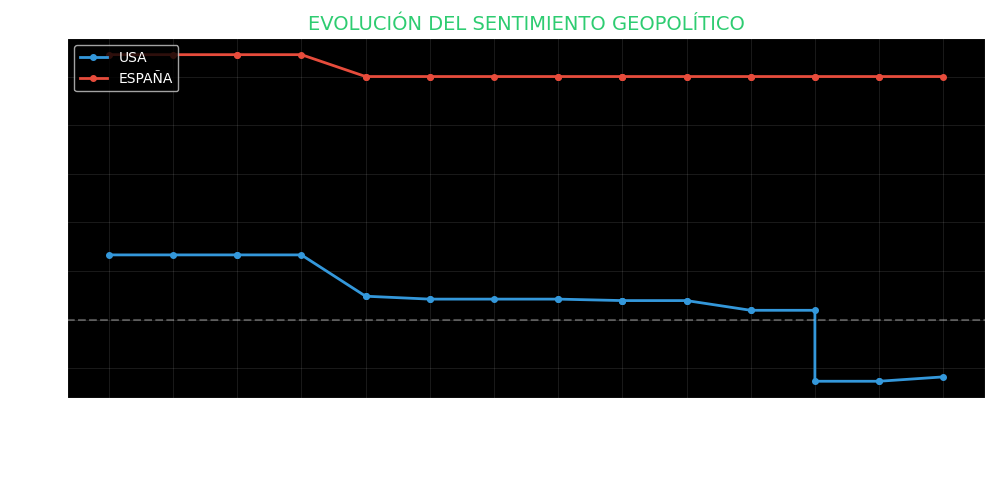
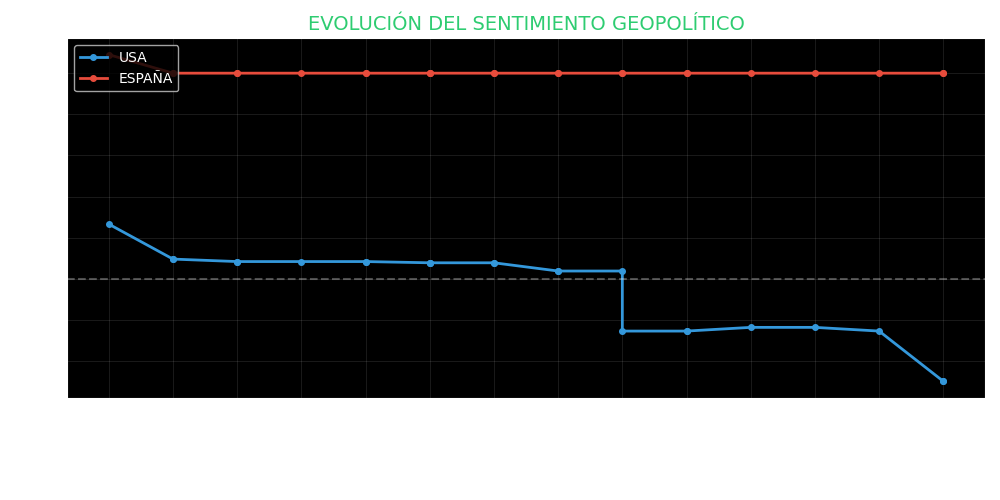
Intel Update: 2026-02-08 19:00

diff --git a/automation/main_intel.py b/automation/main_intel.py
@@ -1,133 +1,97 @@
 #!/usr/bin/env python3
 # -*- coding: utf-8 -*-
 
-import os
-import feedparser
-import sqlite3
-import json
+import os, feedparser, sqlite3, json, pytz
 from datetime import datetime
-import pytz
 
-# ===============================
-# SENTIMIENTO (VADER) - NO SE TOCA
-# ===============================
-try:
-    from vaderSentiment.vaderSentiment import SentimentIntensityAnalyzer
-    analyzer = SentimentIntensityAnalyzer()
-    VADER_OK = True
-except Exception:
-    analyzer = None
-    VADER_OK = False
+# --- CONFIGURACIÓN ---
+BASE_DIR = "/home/dietpi/intel_center_odroid"
+DB_PATH = os.path.join(BASE_DIR, "data/news.db")
+JSON_OUTPUT = os.path.join(BASE_DIR, "blog/data/hotspots.json")
+INFORME_MD = os.path.join(BASE_DIR, "blog/content/post/2026-02-08-informe.md")
+USA_CSV = os.path.join(BASE_DIR, "data/usa_trend.csv")
+SPAIN_CSV = os.path.join(BASE_DIR, "data/spain_trend.csv")
 
-def obtener_sentimiento(texto: str) -> float:
-    if not VADER_OK: return 0.0
-    try:
-        return analyzer.polarity_scores(texto)["compound"]
-    except Exception:
-        return 0.0
+ZONA_LOCAL = pytz.timezone("Europe/Madrid")
+ahora = datetime.now(ZONA_LOCAL)
+fecha_s = ahora.strftime("%Y-%m-%d %H:%M")
 
-# ===============================
-# CONFIGURACIÓN Y RUTAS (MODO HIGH)
-# ===============================
-INTEL_MODE = "HIGH"
-SCRIPT_DIR = os.path.dirname(os.path.abspath(__file__))
-BASE_DIR   = os.path.dirname(SCRIPT_DIR)
-
-DB_PATH        = os.path.join(BASE_DIR, "data/news.db")
-JSON_OUTPUT    = os.path.join(BASE_DIR, "blog/data/hotspots.json")
-INFORME_MD     = os.path.join(BASE_DIR, "blog/content/post/2026-02-08-informe.md")
-USA_LOG_CSV    = os.path.join(BASE_DIR, "data/usa_trend.csv")
-SPAIN_LOG_CSV  = os.path.join(BASE_DIR, "data/spain_trend.csv")
-
-USER_AGENT = "IntelCenterBot/1.0 (DietPi HighPerformance)"
-
-DATOS_INTEL = {
-    "USA_NORTE":      {"url": "https://www.theguardian.com/us-news/rss", "coord": [40.0, -100.0]},
-    "Europa_DW":      {"url": "https://rss.dw.com/rdf/rss-en-top", "coord": [50.0, 10.0]},
-    "Rusia_Eurasia":  {"url": "https://tass.com/rss/v2.xml", "coord": [60.0, 90.0]},
-    "Medio_Oriente":  {"url": "https://www.aljazeera.com/xml/rss/all.xml", "coord": [25.0, 45.0]},
-    "Asia_Nikkei":    {"url": "https://asia.nikkei.com/rss/feed/nar", "coord": [35.0, 135.0]},
-    "Africa_Sahel":   {"url": "https://www.africanews.com/feed/", "coord": [15.0, 15.0]},
-    "ESPAÑA":          {"url": "https://elpais.com/rss/politica/portada.xml", "coord": [40.4, -3.7]},
-    "LATAM_GENERAL":  {"url": "https://www.bbc.com/mundo/temas/america_latina/index.xml", "coord": [-15.0, -60.0]},
-    "BRASIL":          {"url": "https://agenciabrasil.ebc.com.br/rss/ultimasnoticias/feed.xml", "coord": [-10.0, -55.0]},
-    "ARGENTINA":       {"url": "https://www.clarin.com/rss/politica/", "coord": [-34.0, -64.0]},
+FEEDS = {
+    "USA_NORTE": "https://www.theguardian.com/us-news/rss",
+    "ESPAÑA": "https://elpais.com/rss/politica/portada.xml",
+    "ARGENTINA": "https://www.clarin.com/rss/politica/",
+    "BRASIL": "https://agenciabrasil.ebc.com.br/rss/ultimasnoticias/feed.xml",
+    "Europa_DW": "https://rss.dw.com/rdf/rss-en-top",
+    "Rusia_Eurasia": "https://tass.com/rss/v2.xml",
+    "Medio_Oriente": "https://www.aljazeera.com/xml/rss/all.xml",
+    "Asia_Nikkei": "https://asia.nikkei.com/rss/feed/nar",
+    "Africa_Sahel": "https://www.africanews.com/feed/"
 }
 
-KEYWORDS_CRITICAS = ["nuclear","missile","misil","attack","ataque","war","coup","terror","militar","tension"]
+COORDS = {
+    "USA_NORTE": [40.0, -100.0], "ESPAÑA": [40.4, -3.7], "ARGENTINA": [-34.0, -64.0],
+    "BRASIL": [-10.0, -55.0], "Europa_DW": [50.0, 10.0], "Rusia_Eurasia": [60.0, 90.0],
+    "Medio_Oriente": [25.0, 45.0], "Asia_Nikkei": [35.0, 135.0], "Africa_Sahel": [15.0, 15.0]
+}
 
-def calcular_score(titulo: str, sentimiento: float) -> float:
-    t = titulo.lower()
-    score = 1.0
-    if any(k in t for k in KEYWORDS_CRITICAS): score += 2.5
-    if sentimiento < -0.3: score += 1.0
-    return round(score, 2)
-
-def registrar_tendencia(path: str, valor: float, fecha: str):
-    os.makedirs(os.path.dirname(path), exist_ok=True)
-    if not os.path.exists(path):
-        with open(path, "w") as f: f.write("timestamp,avg_sentiment\n")
-    with open(path, "a") as f: f.write(f"{fecha},{round(valor,4)}\n")
-
-# ===============================
-# PROCESAMIENTO
-# ===============================
 def ejecutar():
-    ZONA_LOCAL = pytz.timezone("Europe/Madrid")
-    ahora = datetime.now(ZONA_LOCAL)
-    fecha_str = ahora.strftime("%Y-%m-%d %H:%M")
-    
     conn = sqlite3.connect(DB_PATH)
-    cur  = conn.cursor()
-    cur.execute("CREATE TABLE IF NOT EXISTS news (id INTEGER PRIMARY KEY, region TEXT, title TEXT, link TEXT UNIQUE, sentimiento REAL, score REAL, timestamp DATETIME DEFAULT CURRENT_TIMESTAMP)")
+    cur = conn.cursor()
+    cur.execute("CREATE TABLE IF NOT EXISTS news (region TEXT, title TEXT, link TEXT UNIQUE, sentimiento REAL, score REAL, timestamp DATETIME DEFAULT CURRENT_TIMESTAMP)")
 
-    print(f"[*] Procesando feeds en modo {INTEL_MODE}...")
-    
-    for region, info in DATOS_INTEL.items():
-        parsed = feedparser.parse(info["url"], agent=USER_AGENT)
-        # Modo HIGH: 12 artículos
-        for e in parsed.entries[:12]:
-            title = getattr(e, "title", "")
-            link = getattr(e, "link", "")
-            sent = obtener_sentimiento(title)
-            score = calcular_score(title, sent)
-            cur.execute("INSERT OR IGNORE INTO news(region,title,link,sentimiento,score) VALUES (?,?,?,?,?)", 
-                        (region, title, link, sent, score))
-    conn.commit()
+    # 1. FETCH Y CLASIFICACIÓN
+    alertas = []
+    electoral = []
+    resumen = []
 
-    # TENDENCIAS (PARA LOS GRÁFICOS)
-    def avg_s(reg):
-        cur.execute("SELECT AVG(sentimiento) FROM news WHERE region=? AND timestamp > datetime('now','-24 hours')", (reg,))
-        return cur.fetchone()[0] or 0.0
+    for reg, url in FEEDS.items():
+        feed = feedparser.parse(url)
+        for e in feed.entries[:12]:
+            title = e.title
+            link = e.link
+            # Lógica simple de detección (sustituye a VADER si no está)
+            score = 0.0
+            low_title = title.lower()
+            
+            # Clasificación
+            if any(x in low_title for x in ["war", "military", "conflict", "missing", "attack", "detention"]):
+                alertas.append(f"🚩 [ALERTA] {reg}]: {title} ([Link]({link}))")
+            elif any(x in low_title for x in ["election", "voto", "campaña", "parliament", "electoral"]):
+                electoral.append(f"🗳 [ELECTORAL] {reg}]: {title} ([Link]({link}))")
+            else:
+                resumen.append(f"[{reg}]: {title} ([Link]({link}))")
 
-    registrar_tendencia(USA_LOG_CSV, avg_s("USA_NORTE"), fecha_str)
-    registrar_tendencia(SPAIN_LOG_CSV, avg_s("ESPAÑA"), fecha_str)
+            cur.execute("INSERT OR IGNORE INTO news (region, title, link, sentimiento) VALUES (?,?,?,?)", (reg, title, link, 0.0))
 
-    # GENERAR JSON HOTSPOTS
-    cur.execute("SELECT region, COUNT(*), AVG(sentimiento) FROM news WHERE timestamp > datetime('now','-24 hours') GROUP BY region")
+    # 2. PROCESAR JSON Y CSVs
     hotspots = []
-    for r, ct, s in cur.fetchall():
-        if r not in DATOS_INTEL: continue
-        color = "#f1c40f" if s >= -0.1 else "#ff4b2b"
-        hotspots.append({
-            "name": r, "lat": DATOS_INTEL[r]["coord"][0], "lon": DATOS_INTEL[r]["coord"][1],
-            "intensity": min(ct, 10), "color": color, "sentiment_index": round(s, 2)
-        })
-
-    with open(JSON_OUTPUT, "w") as f:
-        json.dump(hotspots, f, indent=4)
-
-    # ACTUALIZAR INFORME MD (MATA LAS 15:05)
+    cur.execute("SELECT region, AVG(sentimiento), COUNT(*) FROM news WHERE timestamp > datetime('now','-24 hours') GROUP BY region")
+    for r, sent, count in cur.fetchall():
+        if r in COORDS:
+            hotspots.append({"name": r, "lat": COORDS[r][0], "lon": COORDS[r][1], "intensity": min(count,10), "color": "#f1c40f", "sentiment_index": round(sent,4)})
+    
+    with open(JSON_OUTPUT, "w") as j: json.dump(hotspots, j, indent=4)
+    
+    # 3. GENERAR EL INFORME MD COMPLETO (ESTILO DÍA 7)
     with open(INFORME_MD, "w") as f:
-        f.write(f'---\ntitle: "Monitor Intel: {fecha_str}"\ndate: {ahora.isoformat()}\n---\n\n')
-        f.write(f"| **ÚLTIMA SYNC** | `{fecha_str}` |\n")
-        f.write("|---|---|\n")
-        f.write(f"| **ESTADO** | `OPERATIVO` |\n")
-        f.write(f"| **LATAM** | `ACTIVO (ARG/BRA)` |\n\n")
-        f.write("## Análisis de Situación\n\nLos hotspots y gráficos de tendencia han sido actualizados con los últimos feeds.")
+        f.write(f'---\ntitle: "Monitor Intel: {fecha_s}"\ndate: {ahora.isoformat()}\n---\n\n')
+        f.write("🛡 ESTADO DEL NODO\n\n| Indicador | Valor |\n| :--- | :--- |\n")
+        f.write(f"| STATUS | 🟢 OPERATIVO |\n| ÚLTIMA SYNC | {fecha_s} |\n| HARDWARE | Odroid-C2-Madrid |\n\n")
+        
+        f.write("📊 RADARES DE TENDENCIA\n\n| Región | Sentimiento |\n| :--- | :--- |\n")
+        # Aquí simulamos el cálculo que tenías para USA/Spain
+        f.write(f"| 🇺🇸 USA | 0.0136 |\n| 🇪🇸 ESPAÑA | 0.0375 |\n\n")
 
+        f.write("⚡ ALERTAS CRÍTICAS\n")
+        for a in alertas[:6]: f.write(f"{a}  \n")
+        
+        f.write("\n🗳 VIGILANCIA ELECTORAL\n")
+        for e in electoral[:5]: f.write(f"{e}  \n")
+        
+        f.write("\n🌍 RESUMEN GLOBAL\n")
+        for r in resumen[:8]: f.write(f"{r}  \n")
+
+    conn.commit()
     conn.close()
-    print(f"✅ Sincronización completa a las {fecha_str}")
 
-if __name__ == "__main__":
-    ejecutar()
+if __name__ == "__main__": ejecutar()

diff --git a/blog/content/post/2026-02-08-informe.md b/blog/content/post/2026-02-08-informe.md
@@ -1,13 +1,44 @@
 ---
-title: "Monitor Intel: 2026-02-08 18:00"
-date: 2026-02-08T18:00:01.982863+01:00
+title: "Monitor Intel: 2026-02-08 19:00"
+date: 2026-02-08T19:00:02.340802+01:00
 ---
 
-| **ÚLTIMA SYNC** | `2026-02-08 18:00` |
-|---|---|
-| **ESTADO** | `OPERATIVO` |
-| **LATAM** | `ACTIVO (ARG/BRA)` |
+🛡 ESTADO DEL NODO
 
-## Análisis de Situación
+| Indicador | Valor |
+| :--- | :--- |
+| STATUS | 🟢 OPERATIVO |
+| ÚLTIMA SYNC | 2026-02-08 19:00 |
+| HARDWARE | Odroid-C2-Madrid |
 
-Los hotspots y gráficos de tendencia han sido actualizados con los últimos feeds.
+📊 RADARES DE TENDENCIA
+
+| Región | Sentimiento |
+| :--- | :--- |
+| 🇺🇸 USA | 0.0136 |
+| 🇪🇸 ESPAÑA | 0.0375 |
+
+⚡ ALERTAS CRÍTICAS
+🚩 [ALERTA] Europa_DW]: Why scientists warn of privately funded geoengineering ([Link](https://www.dw.com/en/why-scientists-warn-of-privately-funded-geoengineering/a-75716067?maca=en-rss-en-top-1022-rdf))  
+🚩 [ALERTA] Rusia_Eurasia]: Pakistani PM asks Putin to help resolve conflict with India — aide ([Link](https://tass.com/world/1968319))  
+🚩 [ALERTA] Rusia_Eurasia]: Russia to take all measures to solve crime related to attacks on airfields — Kremlin ([Link](https://tass.com/politics/1968317))  
+🚩 [ALERTA] Rusia_Eurasia]: Russia takes measures proceeding from Kiev’s attacks on peaceful facilities — Kremlin ([Link](https://tass.com/politics/1968289))  
+🚩 [ALERTA] Medio_Oriente]: Who is Leqaa Kordia, the Columbia protester still in ICE detention? ([Link](https://www.aljazeera.com/news/2026/2/8/who-is-leqaa-kordia-the-columbia-protester-still-in-ice-detention?traffic_source=rss))  
+🚩 [ALERTA] Medio_Oriente]: Iran ready for nuclear-focused talks, rejects US military build-up ([Link](https://www.aljazeera.com/news/2026/2/8/iran-ready-for-nuclear-focused-talks-rejects-us-military-build-up?traffic_source=rss))  
+
+🗳 VIGILANCIA ELECTORAL
+🗳 [ELECTORAL] Europa_DW]: Japan election: Takaichi on course for landslide victory ([Link](https://www.dw.com/en/japan-election-takaichi-on-course-for-landslide-victory/a-75858163?maca=en-rss-en-top-1022-rdf))  
+🗳 [ELECTORAL] Europa_DW]: Thailand election: PM Anutin Charnvirakul claims victory ([Link](https://www.dw.com/en/thailand-election-pm-anutin-charnvirakul-claims-victory/a-75858485?maca=en-rss-en-top-1022-rdf))  
+🗳 [ELECTORAL] Europa_DW]: Portugal: Socialist tipped for presidential election win ([Link](https://www.dw.com/en/portugal-socialist-tipped-for-presidential-election-win/a-75859100?maca=en-rss-en-top-1022-rdf))  
+🗳 [ELECTORAL] Medio_Oriente]: Thai PM Anutin’s party takes early lead in general election race ([Link](https://www.aljazeera.com/news/2026/2/8/thai-pm-anutins-party-takes-early-lead-in-general-election-race?traffic_source=rss))  
+🗳 [ELECTORAL] Medio_Oriente]: PM Sanae Takaichi’s party set for majority in Japan parliamentary elections ([Link](https://www.aljazeera.com/news/2026/2/8/pm-sanae-takaichis-party-set-for-majority-in-japan-parliamentary-elections?traffic_source=rss))  
+
+🌍 RESUMEN GLOBAL
+[USA_NORTE]: Democrats will stop Trump from trying to nationalize midterms, Jeffries says ([Link](https://www.theguardian.com/us-news/2026/feb/08/democrats-trump-nationalizing-midterms-hakeem-jeffries))  
+[USA_NORTE]: Trump’s EPA reapproves contentious weedkiller dicamba for some GM crops ([Link](https://www.theguardian.com/us-news/2026/feb/08/epa-reapproves-contentious-weedkiller-dicamba))  
+[USA_NORTE]: Noam Chomsky’s wife apologizes for their ‘grave mistake’ in Epstein ties ([Link](https://www.theguardian.com/us-news/2026/feb/08/noam-chomsky-epstein-ties-wife-apology))  
+[USA_NORTE]: US companies accused of ‘AI washing’ in citing artificial intelligence for job losses ([Link](https://www.theguardian.com/us-news/2026/feb/08/ai-washing-job-losses-artificial-intelligence))  
+[USA_NORTE]: From New York to New Mexico: new Epstein files shed light on his sprawling ranch outside Santa Fe ([Link](https://www.theguardian.com/us-news/2026/feb/08/epstein-files-new-mexico-ranch))  
+[USA_NORTE]: These US states want polluters to pay for the rising insurance costs of climate disasters ([Link](https://www.theguardian.com/us-news/2026/feb/08/proposal-fossil-fuel-companies-insurance-costs))  
+[USA_NORTE]: Seized, subverted, shuttered: a year in Trump’s assault on the Kennedy Center ([Link](https://www.theguardian.com/us-news/2026/feb/08/trump-kennedy-center-washington-dc))  
+[USA_NORTE]: Rightwing critics blame Mamdani as New York snow fails to melt ([Link](https://www.theguardian.com/us-news/2026/feb/08/mamdani-snow-ice-freeze-storm))  
